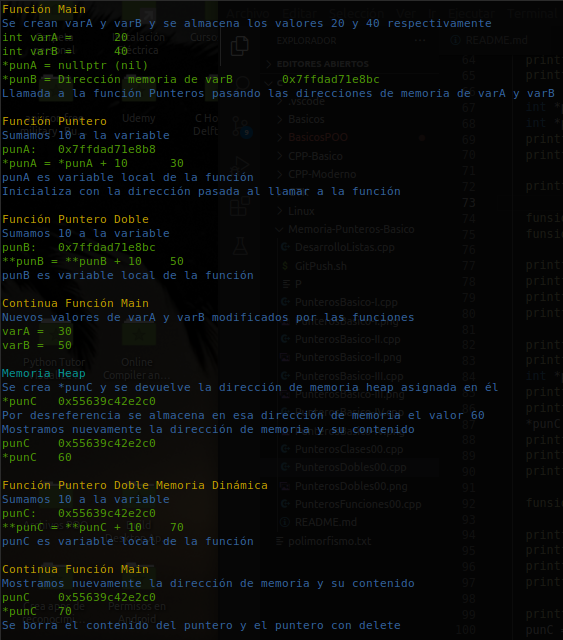
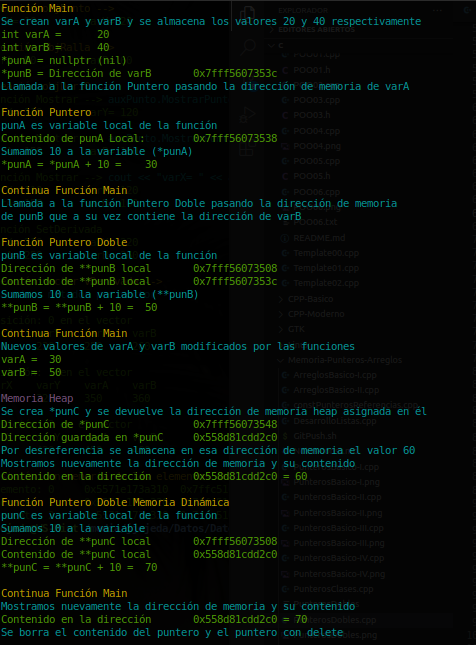
Actualizaciones

diff --git a/PunterosDobles.cpp b/PunterosDobles.cpp
@@ -16,13 +16,12 @@
 void funsionPuntero(int *punA)
 {
     printf("\n\e[0;33mFunción Puntero\e[0m\n");
-    printf("\e[0;34mSumamos 10 a la variable\e[0m\n");
-    printf("punA:\t%p\n", punA);
+    printf("\e[0;36mpunA es variable local de la función\e[0m\n");
+    // Inicializada con la dirección pasada al llamar a la función
+    printf("Contenido de punA Local:\t%p\n", punA);
+    printf("\e[0;36mSumamos 10 a la variable (*punA)\e[0m\n");
     *punA = *punA + 10;
-    printf("*punA = *punA + 10\t%d\n", *punA);
-
-    printf("\e[0;34mpunA es variable local de la función\e[0m\n");
-    printf("\e[0;34mInicializa con la dirección pasada al llamar a la función\e[0m\n");
+    printf("*punA = *punA + 10 =\t%d\n", *punA);
 
     // return; // no necesario al no devolver ningún valor ;-)
 }
@@ -30,12 +29,14 @@ void funsionPuntero(int *punA)
 void funsionPunteroDoble(int **punB)
 {
     printf("\n\e[0;33mFunción Puntero Doble\e[0m\n");
-    printf("\e[0;34mSumamos 10 a la variable\e[0m\n");
-    printf("punB:\t%p\n", *punB);
+    printf("\e[0;36mpunB es variable local de la función\e[0m\n");
+    // Inicializada con la dirección pasada al llamar a la función
+    printf("Dirección de **punB local\t%p\n", &punB);
+    printf("Contenido de **punB local\t%p\n", *punB);
+    printf("\e[0;36mSumamos 10 a la variable (**punB)\e[0m\n");
     **punB = **punB + 10;
-    printf("**punB = **punB + 10\t%d\n", **punB);
+    printf("**punB = **punB + 10 =\t%d\n", **punB);
 
-    printf("\e[0;34mpunB es variable local de la función\e[0m\n");
 
     // return; // no necesario al no devolver ningún valor ;-)
 }
@@ -43,12 +44,13 @@ void funsionPunteroDoble(int **punB)
 void funsionPunteroMemDinamica(int **punC)
 {
     printf("\n\e[0;33mFunción Puntero Doble Memoria Dinámica\e[0m\n");
-    printf("\e[0;34mSumamos 10 a la variable\e[0m\n");
-    printf("punC:\t%p\n", *punC);
+    printf("\e[0;36mpunC es variable local de la función\e[0m\n");
+    printf("\e[0;36mSumamos 10 a la variable\e[0m\n");
+    printf("Dirección de **punC local\t%p\n", &punC);
+    printf("Contenido de **punC local\t%p\n", *punC);
     **punC = **punC + 10;
-    printf("**punC = **punC + 10\t%d\n", **punC);
+    printf("**punC = **punC + 10 =\t%d\n", **punC);
 
-    printf("\e[0;34mpunC es variable local de la función\e[0m\n");
 
     // return; // no necesario al no devolver ningún valor ;-)
 }
@@ -58,7 +60,7 @@ int main(int argc, char *argv[])
     system("clear");
     printf("\e[0;33mFunción Main\e[0m\n");
 
-    printf("\e[0;34mSe crean varA y varB y se almacena los valores 20 y 40 respectivamente\e[0m\n");
+    printf("\e[0;36mSe crean varA y varB y se almacena los valores 20 y 40 respectivamente\e[0m\n");
     int varA = 20;
     int varB = 40;
     printf("int varA =\t%d\n", varA);
@@ -67,38 +69,37 @@ int main(int argc, char *argv[])
     int *punA = nullptr;
     int *punB{&varB};;
     printf("*punA = nullptr\t%p\n", punA);
-    printf("*punB = Dirección memoria de varB\t%p\n", punB);
+    printf("*punB = Dirección de varB\t%p\n", punB);
 
-    printf("\e[0;34mLlamada a la función Puntero pasando la dirección de memoria de varA\e[0m\n");
+    printf("\e[0;36mLlamada a la función Puntero pasando la dirección de memoria de varA\e[0m\n");
     funsionPuntero(&varA);
 
-    printf("\e[0;34mLlamada a la función Puntero Doble pasando la dirección de memoria\n");
-    printf("de punB que a su vez contiene la dirección de varA\e[0m\n");
+    printf("\n\e[0;33mContinua Función Main\e[0m\n");
+    printf("\e[0;36mLlamada a la función Puntero Doble pasando la dirección de memoria\n");
+    printf("de punB que a su vez contiene la dirección de varB\e[0m\n");
     funsionPunteroDoble(&punB);
 
     printf("\n\e[0;33mContinua Función Main\e[0m\n");
-    printf("\e[0;34mNuevos valores de varA y varB modificados por las funciones\e[0m\n");
+    printf("\e[0;36mNuevos valores de varA y varB modificados por las funciones\e[0m\n");
     printf("varA =\t%d\n", varA);
     printf("varB =\t%d\n", varB);
 
-    printf("\n\e[0;36mMemoria Heap\e[0m\n");
-    printf("\e[0;34mSe crea *punC y se devuelve la dirección de memoria heap asignada en él\e[0m\n");
+    printf("\n\e[0;35mMemoria Heap\e[0m\n");
+    printf("\e[0;36mSe crea *punC y se devuelve la dirección de memoria heap asignada en él\e[0m\n");
     int *punC = new int;
-    printf("*punC\t%p\n", punC);
-    printf("\e[0;34mPor desreferencia se almacena en esa dirección de memoria el valor 60\e[0m\n");
+    printf("Dirección de *punC\t\t%p\n", &punC);
+    printf("Dirección guardada en *punC\t%p\n", punC);
+    printf("\e[0;36mPor desreferencia se almacena en esa dirección de memoria el valor 60\e[0m\n");
     *punC = 60;
-    printf("\e[0;34mMostramos nuevamente la dirección de memoria y su contenido\e[0m\n");
-    printf("punC\t%p\n", punC);
-    printf("*punC\t%d\n", *punC);
+    printf("\e[0;36mMostramos nuevamente la dirección de memoria y su contenido\e[0m\n");
+    printf("Contenido en la dirección\t%p = %d\n",punC, *punC);
 
     funsionPunteroMemDinamica(&punC);
     
     printf("\n\e[0;33mContinua Función Main\e[0m\n");
-    printf("\e[0;34mMostramos nuevamente la dirección de memoria y su contenido\e[0m\n");
-    printf("punC\t%p\n", punC);
-    printf("*punC\t%d\n", *punC);
-
-    printf("\e[0;34mSe borra el contenido del puntero y el puntero con delete\e[0m\n\n");
+    printf("\e[0;36mMostramos nuevamente la dirección de memoria y su contenido\e[0m\n");
+    printf("Contenido en la dirección\t%p = %d\n",punC, *punC);
+    printf("\e[0;36mSe borra el contenido del puntero y el puntero con delete\e[0m\n\n");
     punC = nullptr;
     delete punC;
 
